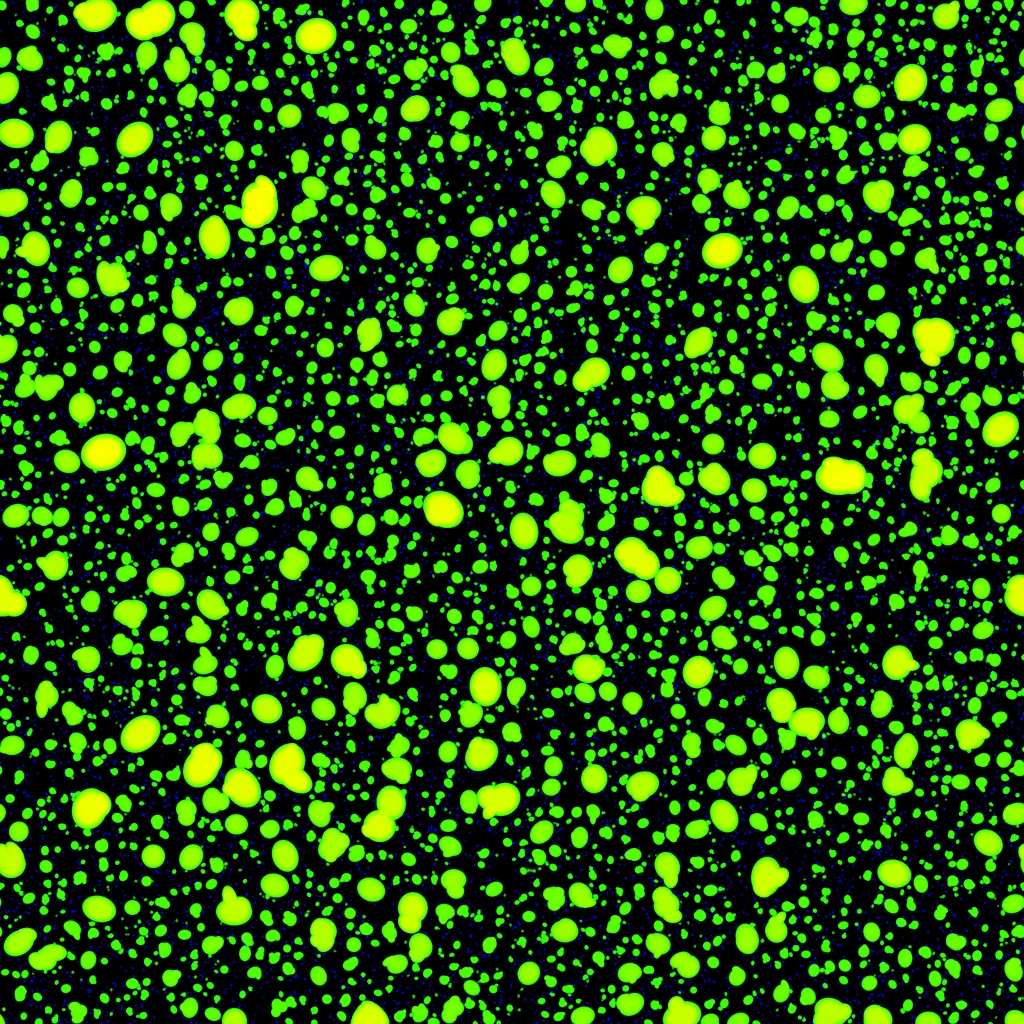
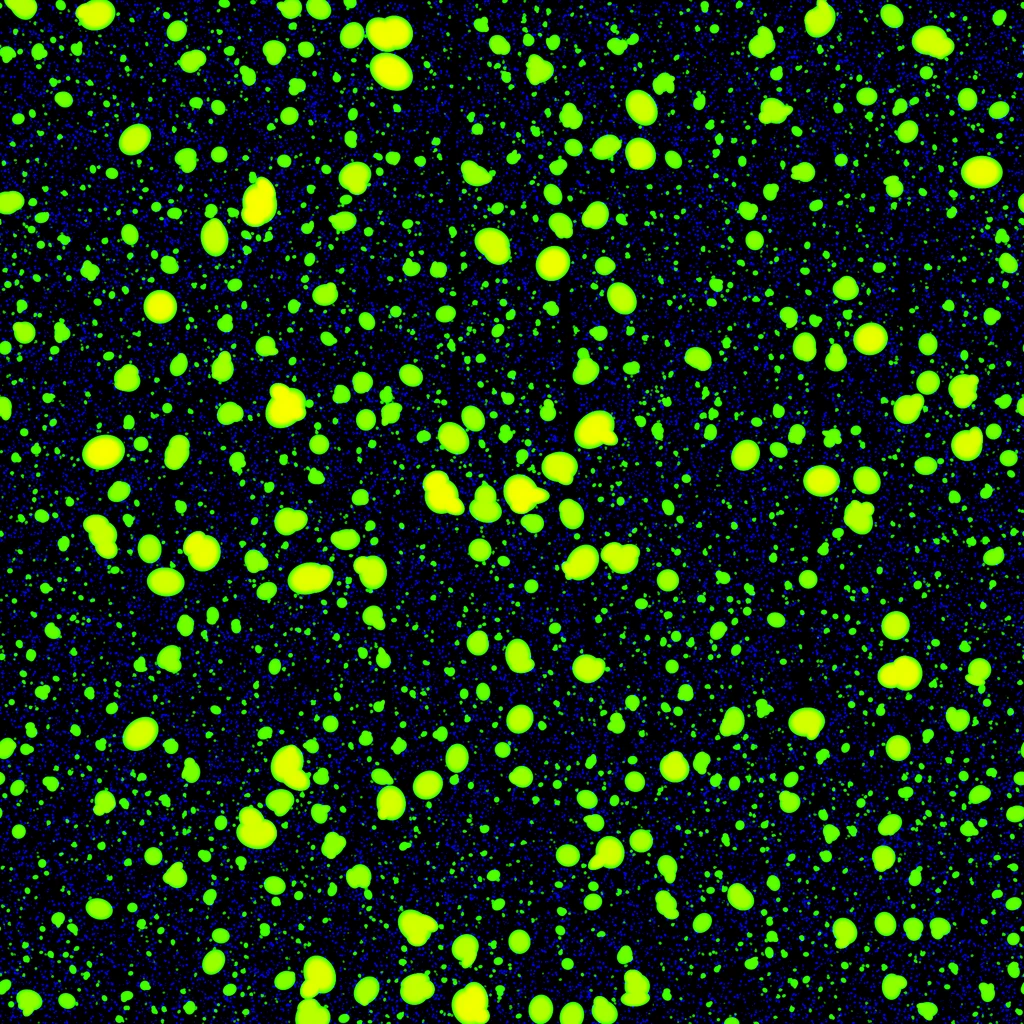
Celular: la botella 3D viaja como en compu; sin sudor y calidad estable
- En celular la botella ya no se desvanece: viaja del hero al escenario de
  "Así le hacemos" y a Nosotros con la maroma, más grande, con la gotita
  sentada en la tapa. La portada ya no se corta en celular.
- Calidad automática que no baja para siempre: ignora la carga y los
  tirones sueltos, piso de 1.5 en celular y vuelve a subir.
- Sin condensación (en compu tampoco); el código queda apagado.
- Revisión de Codex: 3 hallazgos reales corregidos.

diff --git a/src/botella/modelo.js b/src/botella/modelo.js
@@ -827,7 +827,12 @@ export function armarBotella({ texturaDe, ligera = false, foto = false, realce =
           float zona = smoothstep(0.06, 0.16, vLocC.y) * (1.0 - smoothstep(${(nivel - 0.04).toFixed(3)}, ${(nivel + 0.02).toFixed(3)}, vLocC.y));
           float th = atan(vLocC.x, vLocC.z);
           float enEtq = step(abs(th), uEtqC.z) * step(abs(vLocC.y - uEtqC.x), uEtqC.y);
-          float kF = uFrio * zona * mix(1.0, 0.95, enEtq);   // en su foto la etiqueta va MUY mojada
+          // en la etiqueta, menos (×0.75). v7 (botón "Bien fría"): como en un time-lapse real, primero se EMPAÑA
+          // (velo) y después aparecen las gotas, las chicas antes que las grandes
+          float kV = smoothstep(0.0, 0.4, uFrio) * zona * mix(1.0, 0.75, enEtq);
+          float pD = smoothstep(0.25, 1.0, uFrio);
+          float kD = pD * zona * mix(1.0, 0.75, enEtq);
+          float crece = smoothstep(dd.r * 0.55, dd.r * 0.55 + 0.3, pD);
           vec3 nC = mapNC;
           float borde = clamp(1.0 - nC.z, 0.0, 1.0);
           // v3 (Zahir: en café "se ve muy extraño"): la gota casi NO cambia de
@@ -842,7 +847,7 @@ export function armarBotella({ texturaDe, ligera = false, foto = false, realce =
             // sobre la etiqueta: su imprenta, desplazada e invertida por la gota
             float u = (th + uEtqC.z) / (2.0 * uEtqC.z);
             float v = (vLocC.y - (uEtqC.x - uEtqC.y)) / (2.0 * uEtqC.y);
-            vec2 uvE = vec2(u, v) - nC.xy * 0.035 * (1.0 - borde);
+            vec2 uvE = vec2(u, v) - nC.xy * 0.007 * (1.0 - borde);
             base = texture2D(uEtqMapC, uvE * vec2(0.992, 0.988) + vec2(0.004, 0.006)).rgb;
           }
           float junta = pow(clamp(dot(-nC.xy, normalize(vec2(-0.6, 0.8))) * 1.8, 0.0, 1.0), 2.0) * (1.0 - borde);
@@ -852,24 +857,49 @@ export function armarBotella({ texturaDe, ligera = false, foto = false, realce =
           // v4 (copiando su foto real): la gota plana se ve un pelito MÁS OSCURA que
           // lo de abajo (en la jamaica, casi negra) con la luz que junta abajo; el
           // brillo lo pone el reflejo en su orilla empinada
-          vec3 lente = base * luzC * mix(0.88, 0.97, claro) + junta * (base * 0.25 + 0.04) * (1.0 - claro * 0.85);
+          vec3 lente = base * luzC * 1.0 + junta * (base * 0.25 + 0.04) * (1.0 - claro * 0.85);
           vec3 orilla = base * luzC * mix(0.55, 0.86, claro);
           // v5 (Zahir: en las transparentes "se ve raro", aros grises): la gota es
           // TRANSPARENTE. El cuerpo casi no tapa lo de atrás (12%), la orilla un poco
           // (45%) y el brillo va completo encima. Sobre la etiqueta sí se pinta la
           // imprenta deformada (ahí sabemos qué hay debajo).
+          // v6 (22-nov, Zahir: "parece aceite, muchas bolitas"). Comparado con su
+          // FOTO: (1) ninguna gota tiene aro. Una orilla oscura + brillo en TODA la
+          // orilla = burbuja de aceite. En la foto cada gota es casi invisible: un
+          // puntito de luz ARRIBA (la luz viene de arriba) y una rayita clara abajo.
+          // (2) Entre gotas hay un VELO mate (millones de gotitas microscópicas
+          // dispersan la luz: el plástico se ve grisáceo y apagado) y las gotas
+          // grandes son VENTANAS más limpias en ese velo. Los caminitos lo borran.
           float rimF = smoothstep(0.18, 0.6, borde);
-          vec3 cuerpo = mix(lente, orilla, rimF);
-          float aCuerpo = mix(mix(0.12, 0.5, rimF), 0.92, enEtq);
+          vec2 inclC = nC.xy / max(length(nC.xy), 1e-4);
+          float arriba = smoothstep(-0.2, 0.6, dot(inclC, vec2(-0.3, 0.95)));
+          vec3 cuerpo = mix(lente, orilla, rimF * (1.0 - arriba) * 0.5);
+          float aCuerpo = mix(mix(0.04, 0.12, rimF * (1.0 - arriba)), 0.85, enEtq);
           // de canto (en la silueta) las gotas hacían un borde rasposo: se desvanecen
-          float deFrente = smoothstep(0.08, 0.4, abs(dot(normalize(vNormal), normalize(vViewPosition))));
-          float fijas = (dd.g * 0.95 + dd.b * 0.07) * (1.0 - limpioC);
-          float cob = max(fijas, hayD * 0.97) * kF * deFrente;
+          float ndv = abs(dot(normalize(vNormal), normalize(vViewPosition)));
+          // v7 (video de referencia, 22-nov): en una botella fría el empañado se ve
+          // MÁS en las orillas (de lado se ve más superficie y refleja más) y el
+          // centro queda más limpio. Antes se apagaba en las orillas; ahora solo el
+          // filo último (el borde rasposo).
+          float deFrente = smoothstep(0.02, 0.12, ndv);
+          float deLado = pow(1.0 - ndv, 2.0);
+          float fijas = (dd.g * 0.95 + dd.b * 0.05) * (1.0 - limpioC);
+          float cob = max(fijas * crece, hayD * 0.97) * kD * deFrente;
           float aB = cob * aCuerpo;
-          float sL = clamp(dot(totalSpecular, vec3(0.3333)), 0.0, 1.0) * cob;
-          float aT = clamp(aB + sL * (1.0 - aB), 0.0, 1.0);
+          // el brillo: nítido arriba, casi nada en la orilla de abajo
+          vec3 specC = totalSpecular * mix(0.15, 2.4, pow(arriba, 1.5));
+          // el velo: solo fuera de las gotas, menos en la etiqueta y casi nada en lo
+          // claro (en horchata no se nota en la foto)
+          // v7: las gotas ya no son "ventanas" oscuras en el velo (se leían como burbujas DENTRO
+          // del líquido, o como gotas del otro lado): el velo baja solo a la mitad bajo ellas
+          float sinGota = 1.0 - 0.5 * smoothstep(0.04, 0.35, max(dd.g, hayD));
+          float aV = kV * deFrente * sinGota * (1.0 - limpioC) * (1.0 - enEtq * 0.75) * (1.0 - claro * 0.8) * (0.04 + 0.11 * dd.b) * (0.7 + 2.6 * deLado);
+          vec3 colV = luzC * mix(vec3(0.74, 0.76, 0.8), vec3(0.95), claro);
+          float aV2 = aV * (1.0 - aB);
+          float sL = clamp(dot(specC, vec3(0.3333)), 0.0, 1.0) * cob;
+          float aT = clamp(aB + aV2 + sL * (1.0 - aB - aV2), 0.0, 1.0);
           diffuseColor.a = aT;
-          vec3 outgoingLight = (cuerpo * aB + totalSpecular * cob) / max(aT, 0.001);`)
+          vec3 outgoingLight = (cuerpo * aB + colV * aV2 + specC * cob) / max(aT, 0.001);`)
     }
     pielFria = new THREE.Mesh(geo, mat)
     pielFria.renderOrder = 4

diff --git a/src/referencias/mundos/pagina.js b/src/referencias/mundos/pagina.js
@@ -98,7 +98,7 @@ document.getElementById('app').innerHTML = html`
 
 <section class="nosotros" id="nosotros">
   ${ondas}
-  <figure class="nosotros-foto" data-botella="nosotros" data-revela>${ramito(3)}<img class="asoma" src="/marca/gotita-asoma.svg" alt="" /><div class="nosotros-zoom"><img class="nosotros-botella" alt="Una botella de agua Natural, de cerca" /></div></figure>
+  <figure class="nosotros-foto" data-botella="nosotros" data-revela>${ramito(3)}<img class="asoma" src="/marca/gotita-asoma.svg" alt="" /><div class="nosotros-zoom"><div class="nb-giro"><img class="nosotros-botella" alt="Una botella de agua Natural, de cerca" /><img class="nb-gotita" src="/marca/gotita-sentada.svg" alt="" aria-hidden="true" /></div></div></figure>
   <div class="nosotros-txt" data-revela>
     <p class="sobre">Nosotros</p>
     <h2>Somos una familia poblana que hace aguas de verdad.</h2>
@@ -287,6 +287,9 @@ const secProc = document.querySelector('.proceso')
 const pasosProc = [...secProc.querySelectorAll('li')]
 const selloProc = [...secProc.querySelectorAll('.proceso-sello b')]
 const esMovil = () => innerWidth < 900
+// (22-nov) El botón "Bien fría" del hero se QUITÓ a pedido de Zahir: el sudor
+// solo aparece en Nosotros (compu) como antes.
+const frioHero = 0
 const secNos = document.querySelector('.nosotros')
 const hNos = document.querySelector('[data-botella="nosotros"]')
 
@@ -412,12 +415,50 @@ function cuadro() {
       // acostada, el aire se juntaba en el hombro y el agua se veía cortada
       escena.lleno(v)
       // gotas de frío: aparecen mientras llega, como recién sacada del refri
-      escena.frio(lim((v - 0.35) / 0.65))
+      escena.frio(Math.max(frioHero, lim((v - 0.35) / 0.65)))
       enNosotros = v >= 1
-    } else { escena.lleno(0); escena.frio(0) }
+    } else { escena.lleno(0); escena.frio(frioHero) }
     // (el pie ya no lleva botella: 13-nov Zahir prefirió la firma sola, al centro)
   } else {
-    opacidad = lim((viaje.getBoundingClientRect().bottom - H * 0.3) / (H * 0.4))
+    // CELULAR v2 (22-nov, Zahir: "que dé vueltas como en el real"): la MISMA
+    // coreografía que en compu en lugar de desvanecerse y cambiar a la foto plana
+    // (eso dejaba un fantasma encima de los stickers). Hero → escenario de "Así le
+    // hacemos" (con la maroma) → Nosotros (otra maroma, acostada y grande).
+    const hero = { x: W / 2, y: H * 0.465 + Math.sin(ahora / 900) * 4, alto: H * 0.66, giroY: respira, ladeo: -0.13, cabeceo: 0 }
+    const pm = document.querySelector('.proceso-movil')
+    const rp = pm.getBoundingClientRect(), rv = viaje.getBoundingClientRect()
+    // empieza cuando el hero se va y termina con el escenario a media pantalla
+    const d0 = rv.bottom + scrollY - H, d1 = rp.top + scrollY + rp.height / 2 - H / 2
+    const t = suave(lim((scrollY - d0) / Math.max(1, d1 - d0)))
+    const B = { x: rp.left + rp.width / 2, y: rp.top + rp.height * 0.5, alto: rp.height * 0.8 }
+    pose = {
+      x: mezcla(hero.x, B.x, t), y: mezcla(hero.y, B.y, t), alto: mezcla(hero.alto, B.alto, t),
+      giroY: respira + t * 0.8, ladeo: mezcla(-0.13 - Math.sin(t * Math.PI) * 0.35, -0.07, t),
+      cabeceo: t * Math.PI * 2, voltea: 0.95 * Math.pow(Math.sin(t * Math.PI), 0.35),
+    }
+    const rn = secNos.getBoundingClientRect()
+    if (rn.top < H * 0.9 && rn.bottom > 0) {
+      const v = suave(lim((H * 0.9 - rn.top) / (H * 0.85)))
+      const rf = hNos.getBoundingClientRect()
+      // más grande (Zahir) y menos ladeada que en compu: acostada a 34° el ANCHO
+      // del teléfono la topaba; a ~26° cabe más alta
+      const fin = {
+        x: rf.left + rf.width * 0.5, y: rf.top + rf.height * 0.52, alto: Math.min(rf.height * 0.98, W * 1.12),
+        giroY: Math.PI * 4 + 0.35 + Math.sin(ahora / 2400) * 0.14, ladeo: -0.45,
+      }
+      pose = {
+        x: mezcla(pose.x, fin.x, v), y: mezcla(pose.y, fin.y, v), alto: mezcla(pose.alto, fin.alto, v),
+        giroY: mezcla(pose.giroY, fin.giroY, v), ladeo: mezcla(pose.ladeo, fin.ladeo, v),
+        cabeceo: pose.cabeceo + v * Math.PI * 2, voltea: 0.95 * Math.pow(Math.sin(v * Math.PI), 0.35),
+      }
+      escena.lleno(v)
+      escena.frio(frioHero)
+      enNosotros = v >= 1
+    } else { escena.lleno(0); escena.frio(frioHero) }
+    // fuera de la pantalla no se dibuja (Codex: antes seguía gastando GPU/batería
+    // mientras se leían las secciones de abajo)
+    const medio = pose.alto * 0.6
+    if (pose.y + medio < 0 || pose.y - medio > H) opacidad = 0
   }
   lienzo.style.opacity = opacidad
   // TEMBLOR al hacer scroll (Zahir, 20-nov): el lienzo es fijo y se redibuja en

diff --git a/src/referencias/mundos/estilo.css b/src/referencias/mundos/estilo.css
@@ -729,7 +729,26 @@ html.con-3d .botella-plana { display: none }
 .nosotros-foto .asoma { z-index: 1 }
 .nosotros-foto .ramito { z-index: 4 }
 @media (min-width: 900px) { .con-3d .nosotros-zoom { display: none } }
+.nb-giro { position: absolute; inset: 0 }  /* compu sin 3D: la caja de siempre */
 @media (max-width: 899px) { .nosotros-foto { aspect-ratio: 4 / 5 } }
+/* 22-nov (Zahir: "en celular se corta la botella"): la caja recortaba la tapa y dejaba
+   orillas rectas. Ahora va ENTERA y acostada como en compu, del alto de su hueco. */
+@media (max-width: 899px) {
+  .nosotros-zoom { overflow: visible; border-radius: 0 }
+  /* la botella y la gotita sentada en su tapa giran juntas (como en compu) */
+  .nb-giro { position: absolute; left: 50%; top: 50%; height: 96%; aspect-ratio: 509 / 1583; translate: -50% -50%; rotate: -34deg }
+  .nb-giro .nosotros-botella { position: absolute; inset: 0; width: 100%; height: 100%; translate: none; rotate: none; left: 0; top: 0 }
+  .nosotros-foto img.nb-gotita { position: absolute; z-index: 2; width: 60%; height: auto; aspect-ratio: auto; object-fit: contain; border-radius: 0; left: 50%; top: 0; translate: -52% -74%; pointer-events: none }  /* (Codex) `.nosotros-foto img` le ganaba */
+  .nosotros-foto .asoma { display: none }
+  /* TRANSICIÓN (22-nov, Zahir): en celular la botella no viaja en 3D, así que la
+     plana CAE dando la maroma y aterriza acostada; la gotita llega al final y se sienta */
+  .ver .nb-giro { animation: nb-cae 1.5s cubic-bezier(.22, .9, .3, 1.08) .15s both }
+  .ver .nb-gotita { animation: nb-sienta .7s cubic-bezier(.34, 1.6, .64, 1) 1.45s both }
+  @keyframes nb-cae { from { transform: translateY(-75vh) rotate(-320deg) scale(.8); opacity: 0 } 25% { opacity: 1 } to { transform: none } }
+  @keyframes nb-sienta { from { transform: translateY(-120%) scale(.5); opacity: 0 } 40% { opacity: 1 } to { transform: none } }
+}
+@media (max-width: 899px) and (prefers-reduced-motion: reduce) { .ver .nb-giro, .ver .nb-gotita { animation: none } }
+@media (min-width: 900px) { .nb-gotita { display: none } }
 
 /* ── Nosotros v3 (20-nov-2026, Zahir) ──
    Fondo colorido: un ARCO tipo amanecer con los colores de fondo de los mundos
@@ -750,4 +769,15 @@ html.con-3d .botella-plana { display: none }
 .gotita-tapa { position: absolute; left: 0; top: 0; z-index: 4; pointer-events: none; transform-origin: 52% 66%; opacity: 0; transition: opacity .35s; width: 120px; height: auto }
 .gotita-tapa.ver { opacity: 1 }
 @media (min-width: 900px) { .con-3d .nosotros-foto .asoma { display: none } }
-@media (max-width: 899px) { .gotita-tapa { display: none } }
+@media (max-width: 899px) { html:not(.con-3d) .gotita-tapa { display: none } }
+
+/* 22-nov: con 3D, en celular la botella de "Así le hacemos" y Nosotros ES la 3D que viaja
+   (la plana queda solo de respaldo sin WebGL). Hueco de Nosotros más alto: botella más grande. */
+@media (max-width: 899px) {
+  .con-3d .proceso-movil-botella, .con-3d .nb-giro { visibility: hidden }
+  .con-3d .nosotros-foto { aspect-ratio: 5 / 7 }
+  /* .proceso-txt va en la capa 4 (encima del lienzo, 3): con él, el escenario de
+     flores tapaba la botella. Los textos siguen arriba; el escenario, abajo. */
+  .con-3d .proceso-txt { z-index: auto }
+  .con-3d .proceso-cabeza, .con-3d .proceso ol { z-index: 4 }
+}

diff --git a/src/referencias/lavanda/escena.js b/src/referencias/lavanda/escena.js
@@ -31,8 +31,12 @@ export function crearEscena(canvas, { movil = false } = {}) {
 
   const texturaDe = crearTexturas(renderer)
   // condensa: gotas de frío (solo compu; en celular Nosotros usa la foto plana)
-  const modelo = armarBotella({ texturaDe, ligera: movil, realce: true, condensa: !movil })
-  if (movil) modelo.pulpa(false)
+  // 22-nov (Zahir: "va fluido en mi iPhone"): en celular va completa con pulpa; la
+  // versión ligera solo en teléfonos modestos. El sudor sigue solo en compu (él
+  // prefirió que en celular la botella dé las vueltas).
+  const lento = movil && ((navigator.deviceMemory || 8) < 4 || (navigator.hardwareConcurrency || 8) < 6)
+  const modelo = armarBotella({ texturaDe, ligera: lento, realce: true, condensa: false })  // 22-nov: sin sudor (Zahir); el código queda apagado en modelo.js
+  if (lento) modelo.pulpa(false)
   // Agua viva (20-nov-2026): la luz cruza el líquido + menisco
   modelo.agua(true)
   const giro = new THREE.Group()
@@ -78,15 +82,26 @@ export function crearEscena(canvas, { movil = false } = {}) {
   }
 
   // Calidad automática (igual que el motor del sitio): si va lento, baja la resolución
+  // 22-nov (Zahir: "en mi cel baja la calidad de la etiqueta en algunas partes"):
+  // antes bastaban 45 cuadros lentos (los de la carga de texturas o un scroll
+  // brusco) para bajar la resolución PARA SIEMPRE. Ahora: no mide los primeros 4 s
+  // ni los saltos sueltos (> 120 ms = pausa, no lentitud), baja solo si van DOS
+  // tandas lentas seguidas, en celular no baja de 1.5 y vuelve a SUBIR si va fluido.
   const tiempos = []
-  let previo = performance.now()
+  const dprMax = dpr, dprMin = movil ? 1.5 : 1.25, arranque = performance.now()
+  let previo = performance.now(), lentas = 0, rapidas = 0
   function dibujar() {
     const ahora = performance.now()
-    tiempos.push(ahora - previo); previo = ahora
-    if (tiempos.length >= 45) {
+    const dt = ahora - previo; previo = ahora
+    if (ahora - arranque > 4000 && dt < 120 && !document.hidden) tiempos.push(dt)
+    if (tiempos.length >= 60) {
       const prom = tiempos.reduce((a, b) => a + b, 0) / tiempos.length
       tiempos.length = 0
-      if (prom > 22 && dpr > 1.25) { dpr = Math.max(1.25, dpr - 0.25); renderer.setPixelRatio(dpr); vw = 0 }
+      lentas = prom > 24 ? lentas + 1 : 0
+      // < 18 ms: a 60 Hz un cuadro fluido dura ~16.7 ms (con < 15 nunca subía; Codex)
+      rapidas = prom < 18 ? rapidas + 1 : 0
+      if (lentas >= 2 && dpr > dprMin) { dpr = Math.max(dprMin, dpr - 0.25); renderer.setPixelRatio(dpr); vw = 0; lentas = 0 }
+      else if (rapidas >= 3 && dpr < dprMax) { dpr = Math.min(dprMax, dpr + 0.25); renderer.setPixelRatio(dpr); vw = 0; rapidas = 0 }
     }
     modelo.cuadro(ahora / 1000, camera)
     renderer.render(scene, camera)

diff --git a/CLAUDE.md b/CLAUDE.md
@@ -18,6 +18,67 @@
 Sitio de marketing del negocio de aguas naturales. **No es el ERP**: ese vive aparte en
 `~/Developer/natural-erp` y tiene su propio CLAUDE.md.
 
+## ✅ 22-nov PUBLICADO: celular con la botella 3D viajando + SIN SUDOR (en ningún lado)
+- `condensa: false` en `lavanda/escena.js` (Zahir: quitar la condensación también en compu). El código
+  del sudor (v6/v7) se queda en modelo.js, apagado; `prueba-botella.html` todavía lo puede prender.
+- Revisión de Codex (3 hallazgos, los 3 reales y corregidos): el DPR no subía en pantallas de 60 Hz
+  (umbral < 15 ms → < 18 ms); en celular se dibujaba la botella aun fuera de pantalla (ahora
+  `opacidad = 0` si queda fuera); la gotita del respaldo sin WebGL salía recortada (`.nosotros-foto img`
+  le ganaba → `img.nb-gotita`).
+
+## 🟢 22-nov: GOTAS v6 ("parece aceite, muchas bolitas") + CELULAR sin cortes (LOCAL, sin subir)
+
+- **Diagnóstico contra `formacion.jpg`:** en la foto ninguna gota tiene aro; cada una es casi
+  invisible salvo un PUNTITO de luz arriba y una rayita clara abajo; entre gotas hay un VELO
+  mate (gotitas microscópicas) y las gotas grandes son "ventanas" más limpias; la etiqueta
+  mojada se LEE perfecto. Lo nuestro: aro oscuro + brillo en toda la orilla (= burbuja de
+  aceite), 1900 medianas parecidas, etiqueta destrozada (desplazamiento 0.035).
+- **Shader** (`armarFrio` en modelo.js): brillo solo en la parte de ARRIBA de cada gota
+  (`arriba`, ×2.4) y casi nada abajo; sin aro (orilla oscura solo abajo y al 50%); cuerpo
+  al 8%; **velo** fuera de las gotas (`aV`, 5–17%, gris frío × la luz del punto, casi nada
+  en lo claro y 25% en la etiqueta; lo borran los caminitos); etiqueta: desplazamiento
+  0.035→0.007 y 75% de gotas.
+- **Textura** (`herramientas/rocio.cjs`): 1150 gotas (antes 1900) con tamaños `5+30·r^3.2`
+  (casi todas chicas, pocas grandes), 4000 diminutas (solo destellan), neblina 45k con
+  relieve a la mitad. Copias de lo anterior en el scratchpad de la sesión.
+- Revisado en Chrome: jamaica (sitio y prueba), horchata, maracuyá.
+- **v7 (mismo día, Zahir: "veo las gotas de la parte de atrás"):** NO se dibujan las de atrás
+  (la piel es FrontSide y la Lathe mira hacia afuera; comprobado con three en node). Lo que se
+  leía así: las gotas eran "ventanas" más OSCURAS que el velo → parecían burbujas dentro del
+  líquido. Ahora la gota no oscurece (cuerpo al 4%) y el velo solo baja a la mitad bajo ella.
+  Referencia de video real (time-lapse de vaso frío, YouTube "Condensation time lapse"): el
+  empañado se ve MUCHO más en las orillas y el centro queda limpio → velo × (0.7 + 2.6·(1−n·v)²)
+  y las gotas ya no se apagan de lado (solo el último filo).
+- **Botón "Bien fría" en el hero** (idea de Zahir): píldora con copo (`public/marca/copo.svg`, máscara)
+  a un lado del mando (absolute, así el mando sigue centrado en la botella); solo compu y con 3D.
+  `frioHero` sube en ~5 s y baja en ~3.5 s; Nosotros usa `max(frioHero, su frío)`. En el shader
+  el frío es un TIME-LAPSE: 0–40% solo el velo (`kV`), de 25% en adelante las gotas (`kD`),
+  las chicas antes que las grandes (`crece` con la altura `dd.r`).
+- **Celular, transición de Nosotros:** la botella plana va en `.nb-giro` (botella + `.nb-gotita`
+  sentada en la tapa, giran juntas a −34°); al revelarse CAE dando la maroma (`nb-cae`, 1.5 s) y
+  la gotita llega al final (`nb-sienta`). La `.asoma` se esconde en celular.
+- **Celular v2 — la botella 3D VIAJA como en compu** (Zahir lo probó en su iPhone: "va fluido";
+  prefirió vueltas en vez de sudor): rama `else` de `cuadro()`: hero → escenario de
+  `.proceso-movil` (de d0 = sale el hero a d1 = escenario a media pantalla, con maroma) →
+  Nosotros (otra maroma; `ladeo −0.45`, alto = min(0.98 × hueco, 1.12 W): acostada a 34° el
+  ancho del teléfono la topaba). Ya no se desvanece (dejaba un FANTASMA sobre los stickers).
+  Las planas (`.proceso-movil-botella`, `.nb-giro`) quedan solo de respaldo sin WebGL. Hueco de
+  Nosotros en celular 5:7. `.proceso-txt` pasa a `z-index: auto` en celular con 3D (en la capa 4
+  el escenario tapaba la botella; textos siguen en 4). Gotita de la tapa = la DOM de compu (no
+  se corta: la `.nosotros` tiene `overflow: clip`). Celular completo con pulpa salvo teléfonos
+  modestos (`deviceMemory < 4` o `< 6` núcleos → ligera). Sudor sigue solo en compu.
+- **Botón "Bien fría": QUITADO** (Zahir, mismo día, tras probarlo en su iPhone): el sudor vuelve a
+  ser solo de Nosotros en compu; en celular solo pulpa. `?todo` también se quitó.
+- **Calidad en celular** ("baja la calidad de la etiqueta en algunas partes"): la calidad
+  automática de `lavanda/escena.js` bajaba el DPR para siempre con 45 cuadros lentos (la carga de
+  texturas o un scroll brusco bastaban). Ahora ignora los primeros 4 s y los saltos > 120 ms,
+  baja solo con DOS tandas de 60 cuadros lentas (> 24 ms), piso 1.5 en celular y SUBE de nuevo
+  con tres tandas rápidas (< 15 ms). Tope sigue en 2 (celular) / 1.75 (compu).
+- **Celular:** Nosotros ya no recorta la botella en una caja (entera y acostada, 96% del
+  hueco); en el hero/sabores la botella ya no crece al bajar (alto 0.66 H, y 0.465 H) y no
+  se mete bajo los botones. Revisado en 393/375/430/360 px con `public/_movil.html`
+  (iframes; está en .gitignore, solo para desarrollo).
+
 ## 🟢 20-nov (madrugada): GOTAS DE FRÍO v2 — solo en Nosotros (verificado en Chrome)
 
 Tercer intento (los 2 anteriores rechazados: "sucia", "burbujas pegadas"; el `rocio`
